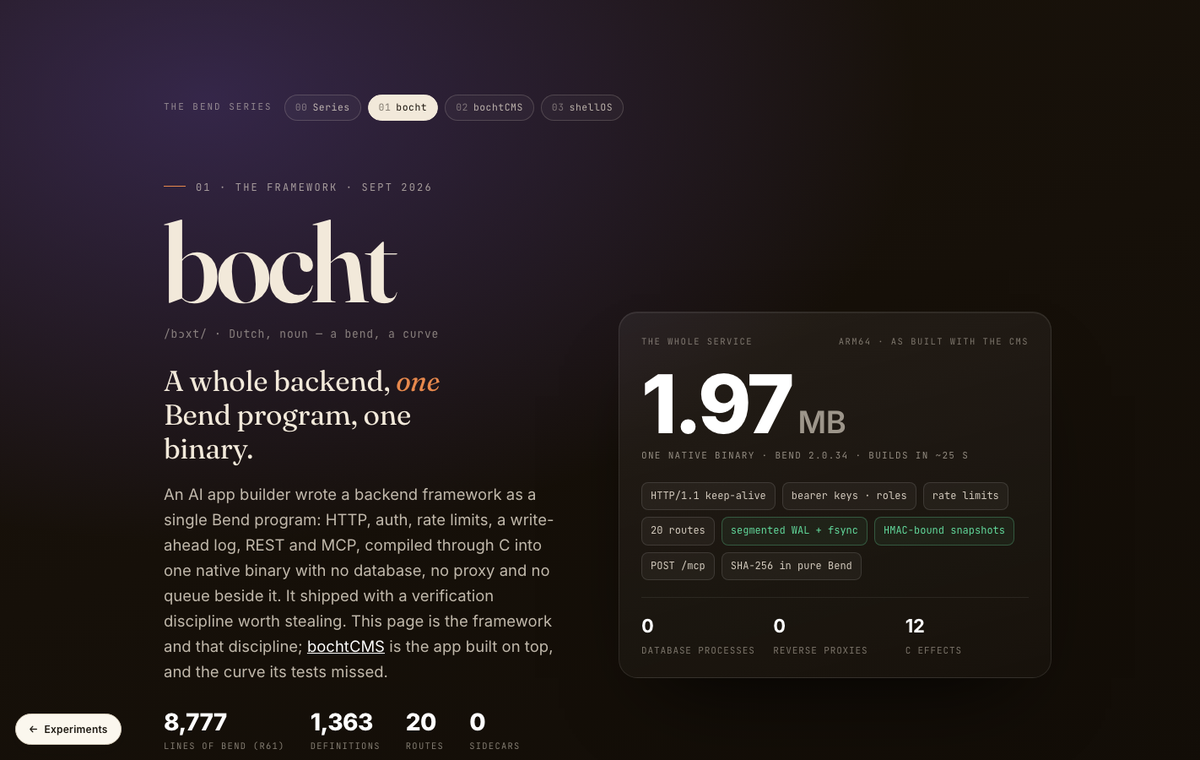
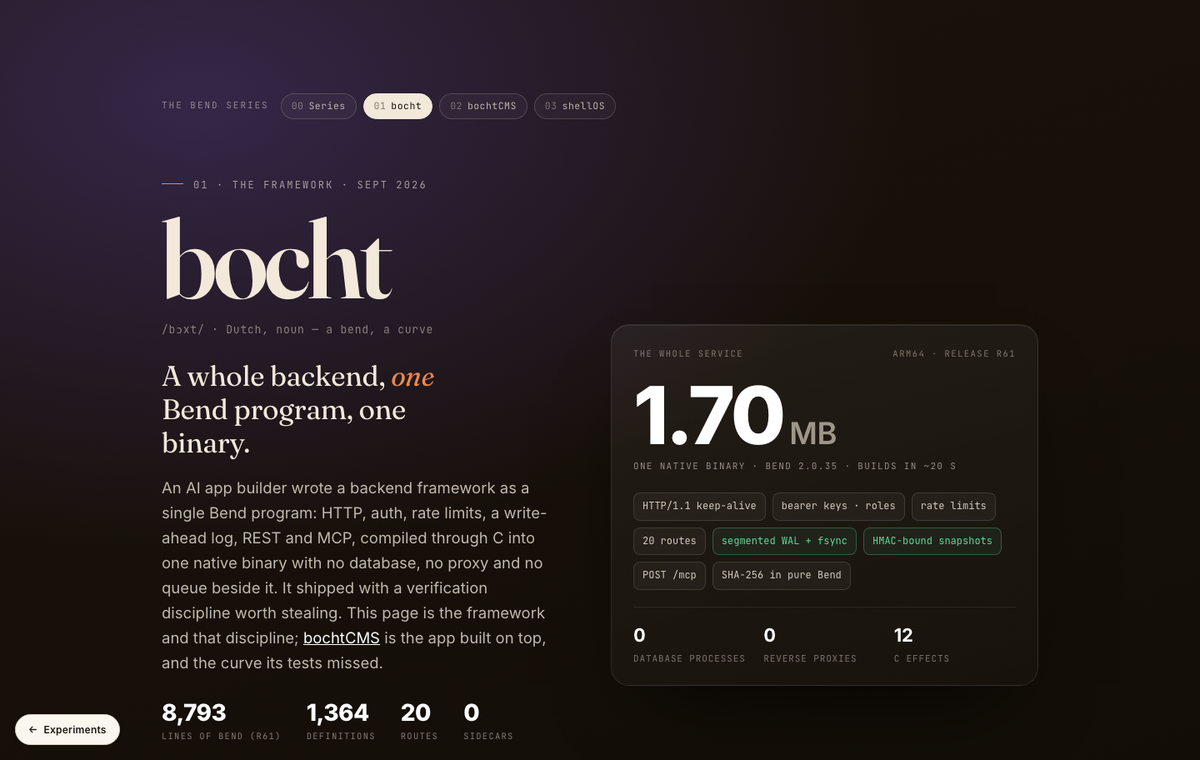
Bend series: note the Bend 2.0.35 re-verification
The overview's version range becomes 2.0.32-2.0.35, "Moving fast" says
2.0.35 needed one line (in bocht) while the CMS and shell built unchanged,
and the footer notes the 5 Oct re-check. bocht's numbers follow its own
r61 build on 2.0.35 (8,793 lines, 1.70 MB binary) in the overview tile,
the hub tile and the refreshed bocht card image.

diff --git a/bend/index.html b/bend/index.html
@@ -48,7 +48,7 @@
       <nav class="jump reveal d3" aria-label="Sections"><a href="#projects">The three</a><a href="#bend">The language</a><a href="#method">The method</a><a href="#found">What it found</a></nav>
     </div>
     <figure class="spec reveal d2" aria-label="The series at a glance">
-      <div class="lab"><span>The series</span><span>Bend 2.0.32–2.0.34</span></div>
+      <div class="lab"><span>The series</span><span>Bend 2.0.32–2.0.35</span></div>
       <div class="x">1 → 3</div>
       <div class="c">one language · one method · three builds</div>
       <div class="chips">
@@ -75,10 +75,10 @@
       <p class="tl2">A whole backend, <em>one</em> binary.</p>
       <p>HTTP with keep-alive, bearer-key auth with roles, per-credential rate limits, a segmented write-ahead log with HMAC-bound snapshots, 20 REST routes and an MCP endpoint, all one Bend program with no sidecars.</p>
       <div class="pills"><span>Bend 2</span><span>C via clang</span><span>WAL + fsync</span><span>REST</span><span>MCP</span></div>
-      <div class="kv"><div><b>8,777</b><span>lines</span></div><div><b>1.97 MB</b><span>binary</span></div><div><b>12</b><span>C effects</span></div></div>
+      <div class="kv"><div><b>8,793</b><span>lines</span></div><div><b>1.70 MB</b><span>binary</span></div><div><b>12</b><span>C effects</span></div></div>
       <a class="open" href="https://ckluis.github.io/bocht/">Open bocht →</a> <a class="open ghost" href="https://github.com/ckluis/bocht">Source ↗</a>
     </div>
-    <a class="pshot" href="https://ckluis.github.io/bocht/" aria-label="bocht"><img src="assets/cards/bocht.png" width="1200" height="760" alt="bocht: the whole backend as one 1.97 MB arm64 binary"></a>
+    <a class="pshot" href="https://ckluis.github.io/bocht/" aria-label="bocht"><img src="assets/cards/bocht.png" width="1200" height="760" alt="bocht: the whole backend as one 1.70 MB arm64 binary"></a>
   </article>
 
   <article class="ptile flip reveal" style="--glow:rgba(232,137,77,.30)">
@@ -121,7 +121,7 @@
     <div class="lf reveal"><div class="k">Compiles to C</div><p>One C file serves as both the CPU program and the GPU kernel. clang builds a native binary; the same source can emit JS.</p></div>
     <div class="lf reveal d1"><div class="k">Affine by default</div><p>A value is used once unless marked reusable. Matches only work on parameters, there are no forward references, and no mutual recursion.</p></div>
     <div class="lf reveal d2"><div class="k">Strict, so helpers bite</div><p>A <code>pick(cond, a, b)</code> helper evaluates both sides. That one line made the bochtCMS parser quadratic.</p></div>
-    <div class="lf reveal d3"><div class="k">Moving fast</div><p>The builder logged breaking changes in 2.0.27, 2.0.29, 2.0.32 and 2.0.34, four in 12 days. bocht's pinned release no longer builds on the current one.</p></div>
+    <div class="lf reveal d3"><div class="k">Moving fast</div><p>The builder logged breaking changes in 2.0.27, 2.0.29, 2.0.32 and 2.0.34, four in 12 days. Bend 2.0.35 (3 Oct) needed one line, in bocht; the CMS and the shell built unchanged.</p></div>
   </div>
 </div></section>
 
@@ -163,7 +163,7 @@
   <h2>Three builds. Three audits. <em>Every claim re-derived from disk.</em></h2>
   <div class="credits"><div class="credit"><div class="k">Builds</div><p>An AI app builder, under its evidence-first methodology, in Bend 2.0.18–2.0.34.</p></div><div class="credit"><div class="k">Audits &amp; fixes</div><p>Claude Code (Opus 5.5): reproduction, adversarial testing, profiling, minimal fixes, differentials, the shellOS port and redesign.</p></div><div class="credit"><div class="k">Direction</div><p>Chris Kluis: commissioned each evaluation, made the calls, and published the series.</p></div></div>
   <div class="links"><a href="https://bend-lang.com" target="_blank" rel="noopener">Bend ↗</a><a href="https://ckluis.github.io/bocht/">bocht</a><a href="https://ckluis.github.io/bochtCMS/">bochtCMS</a><a href="https://ckluis.github.io/shellOS/">shellOS</a><a href="https://ckluis.github.io/experiments/">All experiments ↗</a></div>
-  <p class="fine">Each program's source is in its own repository: github.com/ckluis/bocht, bochtCMS and shellOS. Measured on one Apple-silicon Mac, Bend 2.0.34, late September 2026.</p>
+  <p class="fine">Each program's source is in its own repository: github.com/ckluis/bocht, bochtCMS and shellOS. Measured on one Apple-silicon Mac, Bend 2.0.34, late September 2026; all three re-verified on Bend 2.0.35, 5 Oct 2026.</p>
 </div></footer>
 <script src="assets/series.js"></script>
 </body>

diff --git a/index.html b/index.html
@@ -368,10 +368,10 @@
     </article>
     <article class="tile reveal d1">
       <a href="https://ckluis.github.io/bocht/" target="_blank" rel="noopener" class="tprimary" aria-label="bocht: Bend series case study"></a>
-      <div class="tshot"><div class="panel"><img src="bend/assets/cards/bocht.png" alt="bocht: the whole backend as one 1.97 MB arm64 binary"></div></div>
+      <div class="tshot"><div class="panel"><img src="bend/assets/cards/bocht.png" alt="bocht: the whole backend as one 1.70 MB arm64 binary"></div></div>
       <div class="tbody"><div class="ttop"><div class="tname">bocht</div><span class="pill local">Case study</span></div>
         <p class="ttag">Bend series, part 1. A whole backend (HTTP, auth, rate limits, WAL storage, REST and MCP) written as one Bend program by an AI app builder, shipped with an evidence discipline worth stealing: no claim without a re-derivable result.</p>
-        <div class="tline"><span><b>Pinned</b> r61</span><span><span class="arr">→</span> <b>8,777</b> lines</span><span><span class="arr">→</span> <b>1</b> binary</span></div>
+        <div class="tline"><span><b>Pinned</b> r61</span><span><span class="arr">→</span> <b>8,793</b> lines</span><span><span class="arr">→</span> <b>1</b> binary</span></div>
         <div class="spills"><span class="spill">Bend</span><span class="spill">C</span><span class="spill">WAL</span><span class="spill">MCP</span></div>
         <div class="tlinks"><a href="https://ckluis.github.io/bocht/" target="_blank" rel="noopener">Live →</a><a href="https://github.com/ckluis/bocht" target="_blank" rel="noopener">Code →</a><a href="bend/index.html">The Bend series →</a></div></div>
     </article>
